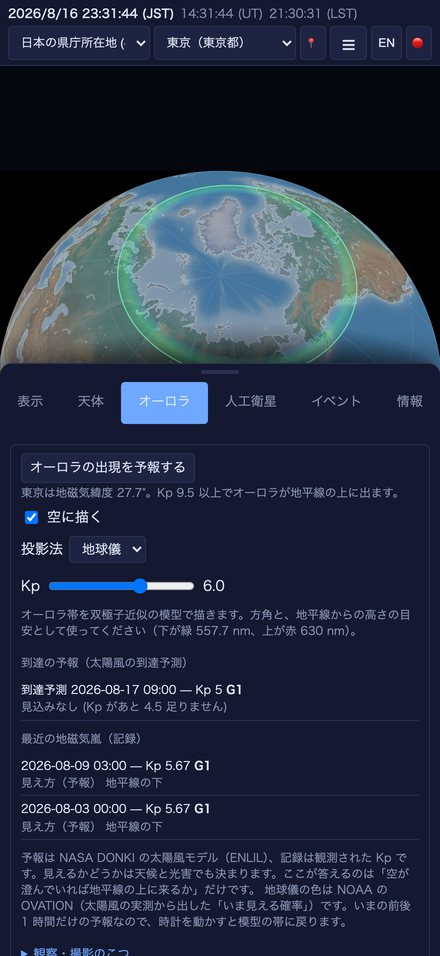
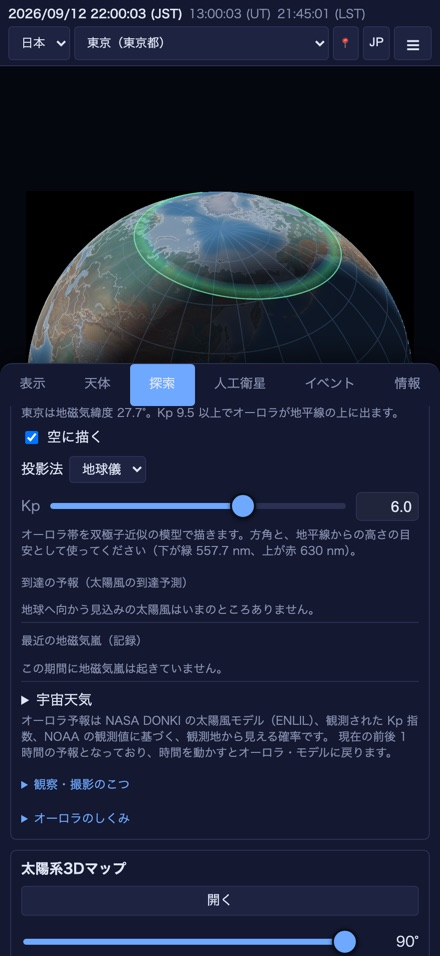
公開ページ: Pro の節の図を撮り直し、説明を直す
図は八月のもので、いまの画面と作りが違っていた (頭の帯に EN の
ボタンと録画の赤丸があるころのもの)。`shoot_pages_pro.py` で六枚とも
撮り直した — 太陽系3Dマップ・オーロラ予報・空に描いたオーロラ帯・
固有運動タイムマシン・深宇宙星表・人工衛星の地球儀。

**AR の図を外した。** AR は無料版の機能で、「Pro で増えるもの」の
節に置いていたのは誤りだった。使わなくなった三枚 (pro-ar,
pro-aurora-abisko, pro-aurora-nayoro) も消す。

深宇宙星表の図は、**星の濃いところを向ける**必要があった。銀河面を
外した野では 1 度に十数個しか無く、234 万星の星表に見えない。
たて座 (M11 の野) を、つまみを 12 等まで開けて撮っている。

diff --git a/manual/index.html b/manual/index.html
@@ -143,29 +143,34 @@ Planisphere &amp; planetarium — user manual (for 2.0/PRO 1.0)</div>
 </div>
 
 <h2>Astrarium Pro で増えるもの</h2>
-<p>オーロラ予報・太陽系3Dマップ・固有運動タイムマシン・深宇宙星表は、別売のアプリ
-<b class="k">Astrarium Pro</b> の機能です。画面は無料版と同じで、入口も同じ場所に
-あります（無料版では、押すと何ができるかの説明が出ます）。人工衛星と AR は
-<b>無料版でも使えます</b>— 人工衛星は宇宙ステーションと肉眼で見える衛星（4 等まで）
-までで、Pro 版はそこに残りの群と世界地図・地球儀・名前での検索が加わります。</p>
+<p>太陽系3Dマップ・オーロラ予報・固有運動タイムマシン・深宇宙星表は、別売のアプリ
+<b class="k">Astrarium Pro</b> の機能です。画面の作りも操作も無料版と同じで、入口も
+同じ場所にあります（無料版では、押すと何ができるかの説明が出ます）。
+<b>人工衛星と AR は無料版でも使えます</b> — 人工衛星は宇宙ステーションと肉眼で
+見える衛星（4 等まで）までで、Pro 版はそこに残りの衛星群と世界地図・地球儀、
+名前・ID での検索が加わります。</p>
 
 <div class="shots">
-  <figure><img src="img/pro-satellites.jpg" alt="人工衛星（地球儀）" loading="lazy">
-    <figcaption>人工衛星 — ISS を選ぶと、地上軌跡と見渡せる範囲</figcaption></figure>
-  <figure><img src="img/pro-aurora.jpg" alt="オーロラ帯" loading="lazy">
-    <figcaption>オーロラ帯 — どこまで下がっているか</figcaption></figure>
+  <figure><img src="img/pro-ssd.jpg" alt="太陽系3Dマップ" loading="lazy">
+    <figcaption>太陽系3Dマップ — 黄道面の真上から木星軌道まで。
+    小惑星帯とトロヤ群（緑）が色で分かれる</figcaption></figure>
   <figure><img src="img/pro-aurora-panel.jpg" alt="オーロラ予報" loading="lazy">
-    <figcaption>オーロラ予報 — NASA DONKI と NOAA OVATION</figcaption></figure>
-  <figure><img src="img/pro-ar.jpg" alt="AR" loading="lazy">
-    <figcaption>AR — カメラ映像に星図を重ねる</figcaption></figure>
-  <figure><img src="img/pro-aurora-abisko.jpg" alt="アビスコのオーロラ"
+    <figcaption>オーロラ予報 — 地球儀に掛かったオーロラ帯と、太陽風の
+    到達予報（NASA DONKI・NOAA OVATION）</figcaption></figure>
+  <figure><img src="img/pro-aurora.jpg" alt="アビスコのオーロラ" loading="lazy">
+    <figcaption>空に描く — アビスコ（スウェーデン）の全天。
+    帯が北の空から頭の上へ回り込む</figcaption></figure>
+  <figure><img src="img/pro-timemachine.jpg" alt="固有運動タイムマシン"
       loading="lazy">
-    <figcaption>Kp 3.8 のオーロラ — アビスコの全天（帯が頭の上へ回り込む）
-    </figcaption></figure>
-  <figure><img src="img/pro-aurora-nayoro.jpg" alt="なよろから見たオーロラ"
+    <figcaption>固有運動タイムマシン — 5 万年後の空。
+    星が動き、星座の形が崩れる</figcaption></figure>
+  <figure><img src="img/pro-deep.jpg" alt="深宇宙星表" loading="lazy">
+    <figcaption>深宇宙星表 — 視野 1.2 度のたて座。
+    UCAC4 の 11 等星まで、等級が添う</figcaption></figure>
+  <figure><img src="img/pro-satellites.jpg" alt="人工衛星（地球儀）"
       loading="lazy">
-    <figcaption>Kp 9 のオーロラ — なよろから北の空（地平・方位 330〜50°）
-    </figcaption></figure>
+    <figcaption>人工衛星 — 地球儀。静止軌道まで引いて、
+    高高度の衛星も一度に見渡せる</figcaption></figure>
 </div>
 
 <table>
